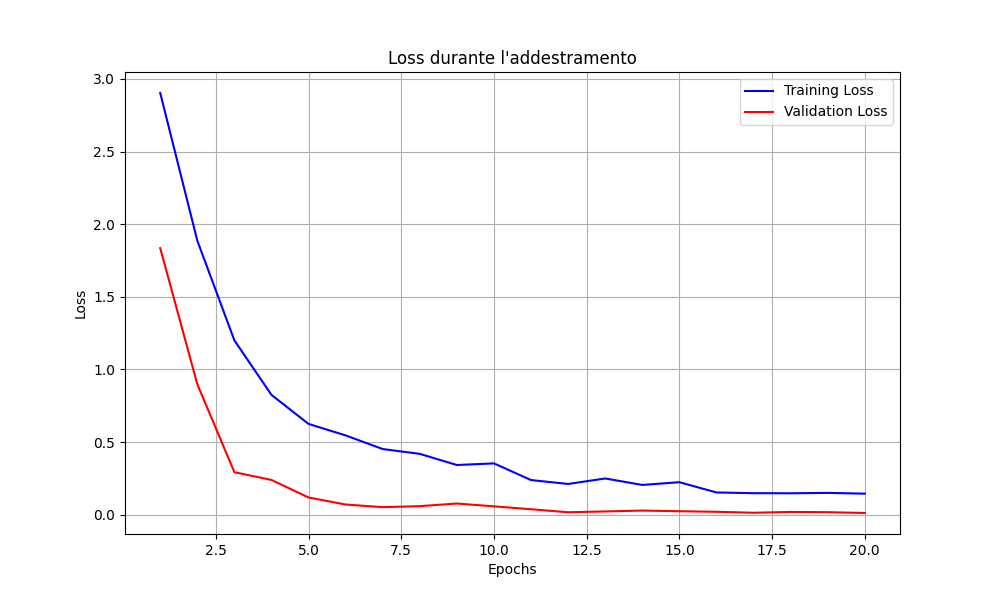
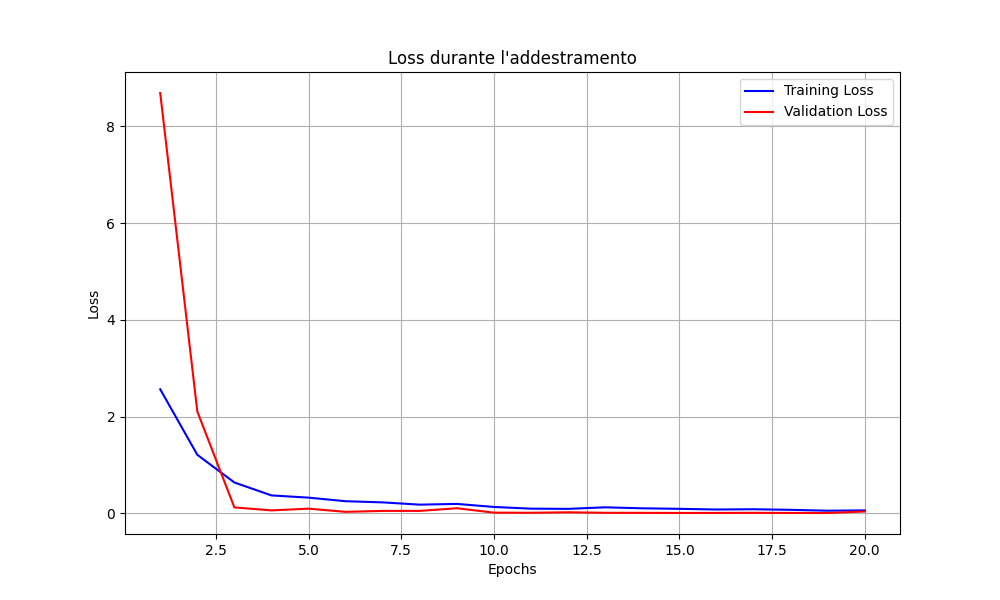
Update grafici

diff --git a/main.py b/main.py
@@ -12,9 +12,9 @@ dir = "../MoodRipple/gtsrb-german-traffic-sign"
 test_labels_path = "../MoodRipple/gtsrb-german-traffic-sign/Test.csv"
 train_labels_path = "../MoodRipple/gtsrb-german-traffic-sign/Train.csv"
 img_size = (30, 30)
-epochs = 15
+epochs = 20
 batch_size = 128
-model_save_path = "models/15_epoche/model.h5"
+model_save_path = "models/20_epoche/model.h5"
 
 def main():
     # Caricamento e preprocessing del dataset prima e dopo il bilanciamento
